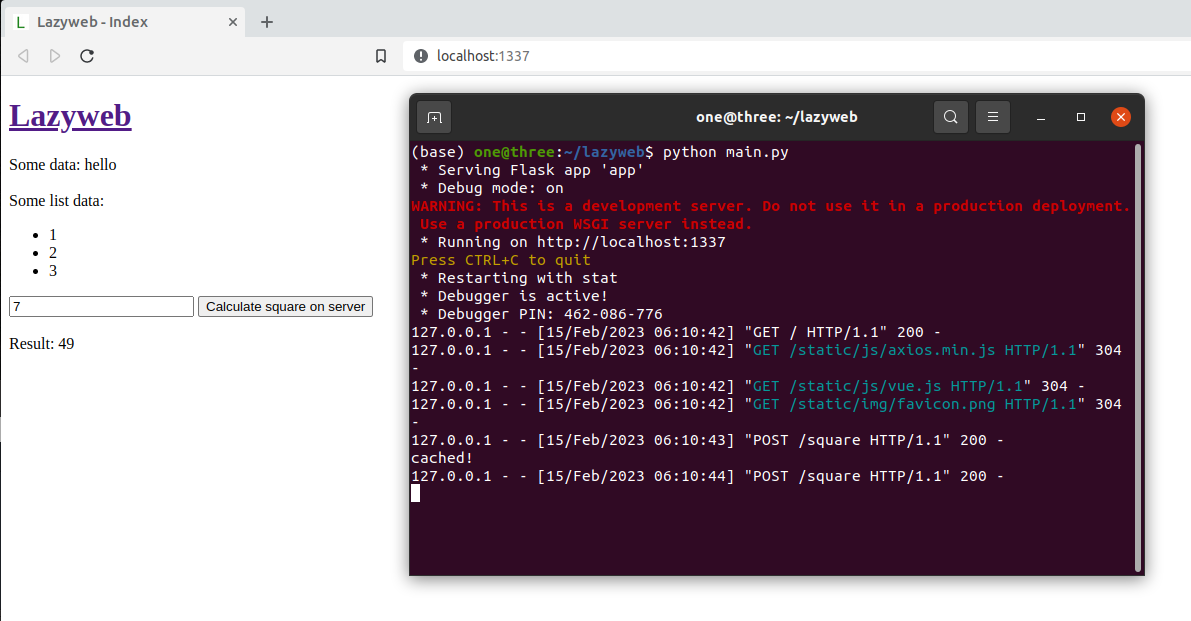
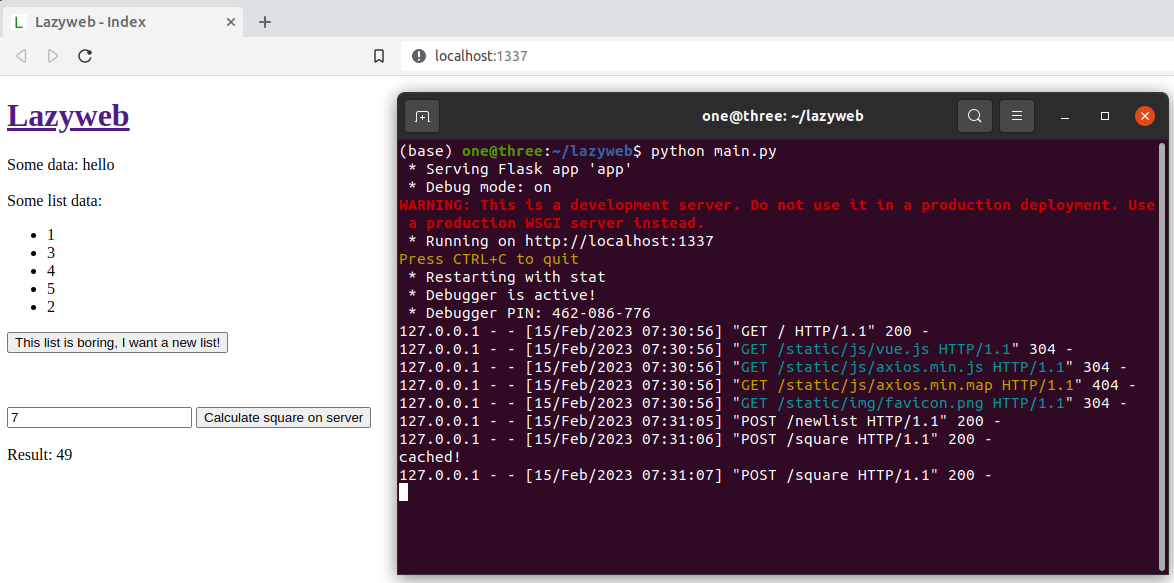
Add new list from server example

diff --git a/templates/index.html b/templates/index.html
@@ -14,6 +14,9 @@
     <li v-for="datum in somelistdata">{{ datum }}
   </ul>
 
+  <button @click="request('newlist')">This list is boring, I want a new list!</button><br><br>
+
+  <br><br>
   <input type="number" v-model="somenumber"></input>
   <button @click="request('square', {'number': somenumber})">Calculate square on server</button><br><br>
   Result: {{ someresult }}

diff --git a/main.py b/main.py
@@ -1,3 +1,5 @@
+from random import shuffle
+
 from flask import render_template, request, jsonify
 
 from app import *
@@ -5,7 +7,15 @@ from db import *
 
 @app.route("/")
 def r_index():
-    return render_template("index.html", somedata="hello", somelistdata=[1,2,3])
+    return render_template("index.html", somedata="hello", somelistdata=[1,2,3,4,5])
+
+@app.route("/newlist", methods=["POST"])
+def r_newlist():
+    l = [1,2,3,4,5]
+
+    shuffle(l)
+
+    return jsonify({"somelistdata": l})
 
 @app.route("/square", methods=["POST"])
 def r_square():
